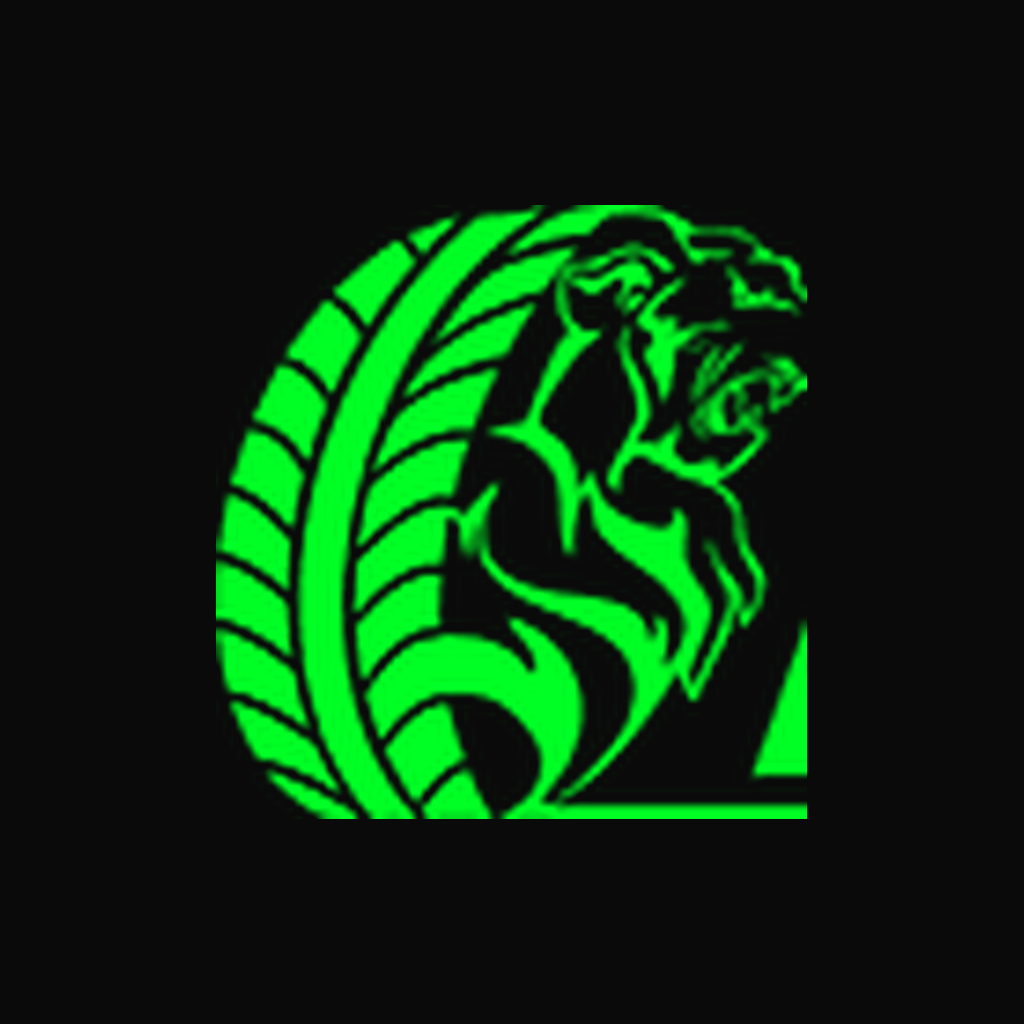
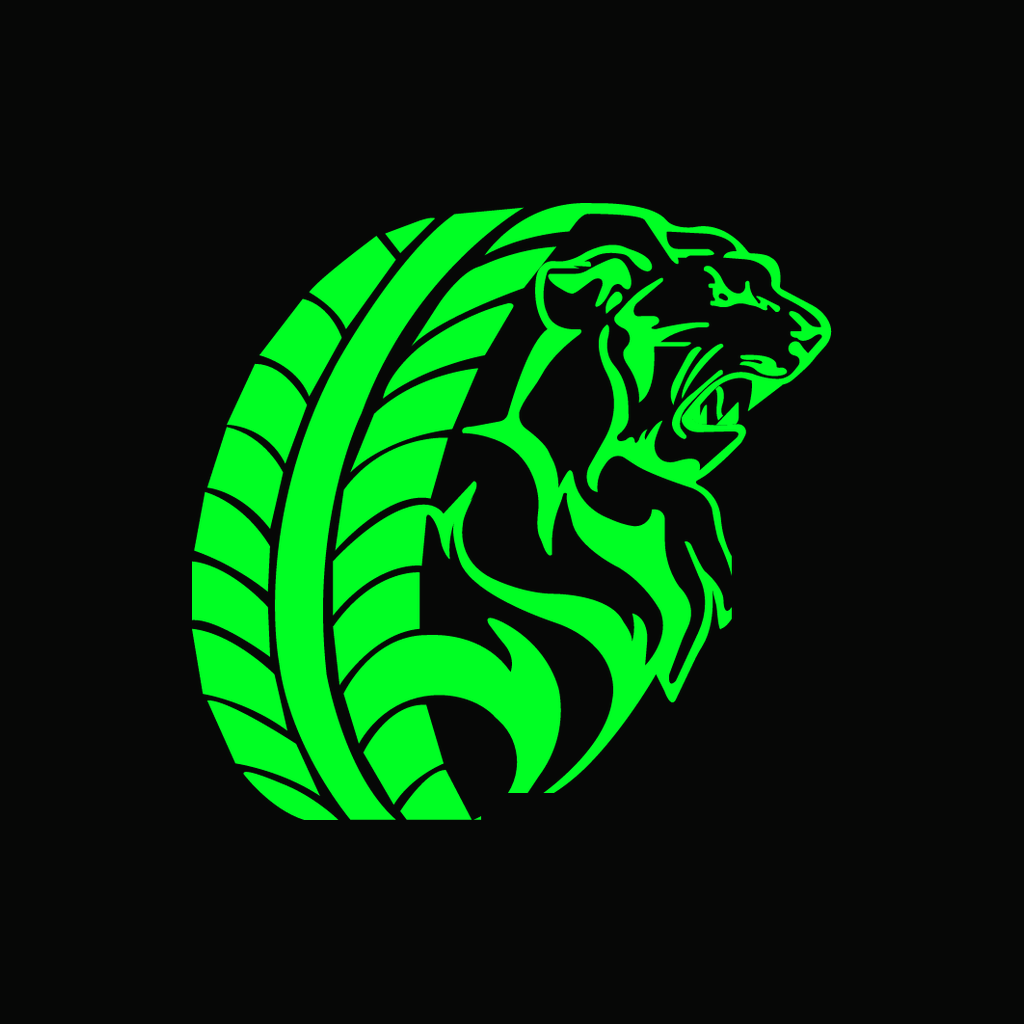
TestFlight/Expo Go readiness and remaining app gaps
- Link EAS project @devhaseeb/fahrschule-abgefahrn (projectId) — required for
  TestFlight builds and Expo push tokens
- expo-local-authentication 17.0.9 (expo-doctor 18/18)
- Crisp app icon, Android adaptive icon, splash and favicon rendered from the
  vector logo (old ones were blurry; icon was cropped)
- Biometric lock: never traps the user — turns itself off when biometrics /
  passcode are no longer usable (or Expo Go lacks Face ID), adds "Abmelden",
  new DS look + i18n, no lock while signed out
- Expo Go on Android: skip remote-push token registration (unsupported since
  SDK 53); local reminders still work
- Notification taps open the specific appointment
- Language choice is stored in profiles.locale; appointment notifications for
  English students are written in English

Changed region(s): [[0.1875, 0.1875, 0.8125, 0.8125]]

diff --git a/components/biometric-gate.tsx b/components/biometric-gate.tsx
@@ -9,13 +9,18 @@
  */
 
 import React, { useCallback, useEffect, useRef, useState } from 'react'
-import { AppState, BackHandler, Platform, Pressable, StyleSheet, Text, View } from 'react-native'
-import { Lock } from 'lucide-react-native'
+import { AppState, BackHandler, Platform, StyleSheet, View } from 'react-native'
+import { LockSimple } from 'phosphor-react-native/src/icons/LockSimple'
 
-import { Brand } from '@/components/ui'
-import { getBiometricEnabled, authenticate, subscribeBiometricEnabled } from '@/lib/biometric'
+import { Button, C, HeroGlow, LinkButton, Logo, T } from '@/components/ds'
+import { getBiometricEnabled, authenticateDetailed, setBiometricEnabled, subscribeBiometricEnabled } from '@/lib/biometric'
+import { useUser } from '@/lib/user-context'
+import { useT } from '@/lib/i18n'
 
 export function BiometricGate({ children }: { children: React.ReactNode }) {
+  const t = useT()
+  const { session, signOut } = useUser()
+  const signedIn = !!session
   const [locked, setLocked] = useState(false)
   const lockedRef = useRef(false)
   const enabledRef = useRef(false)
@@ -32,12 +37,18 @@ export function BiometricGate({ children }: { children: React.ReactNode }) {
     if (authInFlight.current) return
     authInFlight.current = true
     try {
-      const ok = await authenticate('Fahrschule Abgefahrn')
-      if (ok) setLockedBoth(false)
+      const res = await authenticateDetailed(t('lock.prompt'))
+      if (res.success) setLockedBoth(false)
+      else if (res.unusable) {
+        // Biometrics/passcode were removed on this device (or Expo Go lacks Face ID):
+        // a retry can never succeed → turn the lock off instead of trapping the user.
+        await setBiometricEnabled(false)
+        setLockedBoth(false)
+      }
     } finally {
       authInFlight.current = false
     }
-  }, [setLockedBoth])
+  }, [setLockedBoth, t])
 
   useEffect(() => {
     if (Platform.OS === 'web') return
@@ -70,28 +81,39 @@ export function BiometricGate({ children }: { children: React.ReactNode }) {
 
   // While locked, the hardware back button must not navigate the hidden screens.
   useEffect(() => {
-    if (!locked || Platform.OS !== 'android') return
+    if (!locked || !signedIn || Platform.OS !== 'android') return
     const sub = BackHandler.addEventListener('hardwareBackPress', () => true)
     return () => sub.remove()
-  }, [locked])
+  }, [locked, signedIn])
+
+  // Nobody signed in → nothing to protect (the login screen asks for the password anyway).
+  const showLock = locked && signedIn
 
   return (
     <View style={{ flex: 1 }}>
-      <View style={{ flex: 1 }} importantForAccessibility={locked ? 'no-hide-descendants' : 'auto'} accessibilityElementsHidden={locked}>
+      <View style={{ flex: 1 }} importantForAccessibility={showLock ? 'no-hide-descendants' : 'auto'} accessibilityElementsHidden={showLock}>
         {children}
       </View>
-      {locked ? (
-        <View style={[StyleSheet.absoluteFill, { zIndex: 2000, elevation: 2000 }]} className="items-center justify-center gap-6 bg-black">
-          <Brand size={72} />
-          <Pressable
-            onPress={tryUnlock}
-            accessibilityRole="button"
-            accessibilityLabel="Entsperren · Unlock"
-            className="flex-row items-center gap-2 rounded-2xl bg-brand px-6 py-4"
-          >
-            <Lock size={18} color="#0A0A0A" />
-            <Text className="font-bold text-ink">Entsperren · Unlock</Text>
-          </Pressable>
+      {showLock ? (
+        <View style={[StyleSheet.absoluteFill, { zIndex: 2000, elevation: 2000, backgroundColor: C.bg, overflow: 'hidden' }]}>
+          <HeroGlow top={120} />
+          <View style={{ flex: 1, alignItems: 'center', justifyContent: 'center', gap: 22, paddingHorizontal: 24 }}>
+            <Logo width={190} />
+            <View style={{ alignItems: 'center', gap: 6 }}>
+              <T variant="headingL" style={{ textAlign: 'center' }}>{t('lock.title')}</T>
+              <T variant="bodyM" color={C.muted} style={{ textAlign: 'center' }}>{t('lock.body')}</T>
+            </View>
+            <Button label={t('lock.unlock')} iconLeft={LockSimple} onPress={tryUnlock} style={{ alignSelf: 'stretch' }} />
+            <LinkButton
+              label={t('lock.signOut')}
+              color={C.muted}
+              onPress={async () => {
+                await setBiometricEnabled(false)
+                setLockedBoth(false)
+                await signOut()
+              }}
+            />
+          </View>
         </View>
       ) : null}
     </View>

diff --git a/lib/biometric.ts b/lib/biometric.ts
@@ -45,15 +45,34 @@ export async function setBiometricEnabled(v: boolean): Promise<void> {
   })
 }
 
-export async function authenticate(reason: string): Promise<boolean> {
-  if (Platform.OS === 'web') return true
+export type AuthResult = { success: boolean; unusable: boolean }
+
+/**
+ * Errors after which a retry can never succeed on this device right now
+ * (biometrics removed / passcode off / Expo Go without Face ID entitlement).
+ * The lock must then step aside instead of trapping the user.
+ */
+const UNUSABLE = new Set(['not_enrolled', 'not_available', 'passcode_not_set', 'missing_usage_description'])
+
+export async function authenticateDetailed(reason: string): Promise<AuthResult> {
+  if (Platform.OS === 'web') return { success: true, unusable: false }
   try {
+    if (!(await isBiometricAvailable())) {
+      // no biometrics any more → fall back to the device passcode if there is one
+      const level = await LocalAuthentication.getEnrolledLevelAsync().catch(() => LocalAuthentication.SecurityLevel.NONE)
+      if (level === LocalAuthentication.SecurityLevel.NONE) return { success: false, unusable: true }
+    }
     const res = await LocalAuthentication.authenticateAsync({
       promptMessage: reason,
       disableDeviceFallback: false,
     })
-    return res.success
+    if (res.success) return { success: true, unusable: false }
+    return { success: false, unusable: UNUSABLE.has((res as { error?: string }).error ?? '') }
   } catch {
-    return false
+    return { success: false, unusable: false }
   }
+}
+
+export async function authenticate(reason: string): Promise<boolean> {
+  return (await authenticateDetailed(reason)).success
 }

diff --git a/lib/notifications/push.ts b/lib/notifications/push.ts
@@ -12,7 +12,7 @@ import { useEffect, useRef } from 'react'
 import { Platform } from 'react-native'
 import AsyncStorage from '@react-native-async-storage/async-storage'
 import { useRouter } from 'expo-router'
-import Constants from 'expo-constants'
+import Constants, { ExecutionEnvironment } from 'expo-constants'
 import * as Device from 'expo-device'
 import * as Notifications from 'expo-notifications'
 
@@ -48,7 +48,18 @@ async function ensureAndroidChannel() {
   })
 }
 
+/**
+ * Remote (server) push is available: real device, not web, and not Expo Go on
+ * Android (removed from Expo Go in SDK 53 — local notifications still work there).
+ */
+export function remotePushSupported(): boolean {
+  if (Platform.OS === 'web' || !Device.isDevice) return false
+  if (Platform.OS === 'android' && Constants.executionEnvironment === ExecutionEnvironment.StoreClient) return false
+  return true
+}
+
 export async function getExpoPushToken(): Promise<string | null> {
+  if (!remotePushSupported()) return null
   const projectId =
     (Constants.expoConfig?.extra as any)?.eas?.projectId ??
     (Constants as any)?.easConfig?.projectId
@@ -70,7 +81,8 @@ function routeForNotification(
   router: ReturnType<typeof useRouter>,
 ) {
   const type = data?.type
-  if (type === 'schedule') router.push('/(tabs)/schedule')
+  if (typeof data?.appointment_id === 'string' && data.appointment_id) router.push(`/appointment/${data.appointment_id}` as any)
+  else if (type === 'schedule') router.push('/(tabs)/schedule')
   else if (type === 'theory') router.push('/(tabs)/theory')
   else if (type === 'exam') router.push('/exams' as any)
   else router.push('/notifications' as any)

diff --git a/components/profile/language-sheet.tsx b/components/profile/language-sheet.tsx
@@ -6,6 +6,8 @@ import React, { useEffect, useState } from 'react'
 import { Pressable, View } from 'react-native'
 import { Check } from 'phosphor-react-native/src/icons/Check'
 import { Globe } from 'phosphor-react-native/src/icons/Globe'
+import { getSupabase } from '@/lib/supabase/client'
+import { useUser } from '@/lib/user-context'
 
 import { Button, C, GLOW, Sheet, T } from '@/components/ds'
 import { useTranslation } from '@/lib/i18n'
@@ -47,6 +49,7 @@ function Option({ label, selected, onPress }: { label: string; selected: boolean
 
 export function LanguageSheet({ visible, onClose }: { visible: boolean; onClose: () => void }) {
   const { t, locale, setLocale } = useTranslation()
+  const { session } = useUser()
   const [choice, setChoice] = useState<Locale>(locale)
 
   // Re-sync the pending choice each time the sheet opens.
@@ -55,7 +58,12 @@ export function LanguageSheet({ visible, onClose }: { visible: boolean; onClose:
   }, [visible, locale])
 
   function done() {
-    if (choice !== locale) setLocale(choice)
+    if (choice !== locale) {
+      setLocale(choice)
+      // server-side texts (appointment notifications) follow the profile locale
+      const uid = session?.user?.id
+      if (uid) getSupabase().from('profiles').update({ locale: choice }).eq('id', uid).then(() => {}, () => {})
+    }
     onClose()
   }
 

diff --git a/components/push-registrar.tsx b/components/push-registrar.tsx
@@ -1,11 +1,25 @@
 /**
- * Push-token registrar. Implemented in Milestone 5 (lib/notifications/push.ts).
- * Stubbed here so the provider tree compiles from M3 onward.
+ * Signed-in background duties: push-token registration (lib/notifications/push.ts)
+ * and keeping profiles.locale in sync with the app language, so server-generated
+ * notifications (appointment confirmations etc.) arrive in the student's language.
  */
 
+import { useEffect } from 'react'
+
 import { usePushRegistration } from '@/lib/notifications/push'
+import { useUser } from '@/lib/user-context'
+import { useTranslation } from '@/lib/i18n'
+import { getSupabase } from '@/lib/supabase/client'
 
 export function PushRegistrar() {
   usePushRegistration()
+  const { profile } = useUser()
+  const { locale } = useTranslation()
+  const uid = profile?.id
+  const stored = profile?.locale
+  useEffect(() => {
+    if (!uid || !stored || stored === locale) return
+    getSupabase().from('profiles').update({ locale }).eq('id', uid).then(() => {}, () => {})
+  }, [uid, stored, locale])
   return null
 }

diff --git a/lib/i18n/v2/ds.ts b/lib/i18n/v2/ds.ts
@@ -1,5 +1,10 @@
 /** Shared design-system strings (states, toasts, tab bar, common actions). */
 export const de: Record<string, string> = {
+  'lock.title': 'App gesperrt',
+  'lock.body': 'Entsperre mit Face ID, Fingerabdruck oder deinem Geräte-Code.',
+  'lock.unlock': 'Entsperren',
+  'lock.signOut': 'Abmelden',
+  'lock.prompt': 'Fahrschule Abgefahrn entsperren',
   'ds.loading': 'Lädt deine Daten …',
   'ds.offline.title': 'Keine Verbindung',
   'ds.offline.body': 'Prüfe deine Internetverbindung und versuch es noch einmal.',
@@ -23,6 +28,11 @@ export const de: Record<string, string> = {
   'nav.profile': 'Profil',
 }
 export const en: Record<string, string> = {
+  'lock.title': 'App locked',
+  'lock.body': 'Unlock with Face ID, fingerprint or your device passcode.',
+  'lock.unlock': 'Unlock',
+  'lock.signOut': 'Sign out',
+  'lock.prompt': 'Unlock Fahrschule Abgefahrn',
   'ds.loading': 'Loading your data …',
   'ds.offline.title': 'No connection',
   'ds.offline.body': 'Check your internet connection and try again.',

diff --git a/lib/auth/push.ts b/lib/auth/push.ts
@@ -13,6 +13,7 @@ import * as Device from 'expo-device'
 import * as Notifications from 'expo-notifications'
 
 import { getSupabase } from '@/lib/supabase/client'
+import { remotePushSupported } from '@/lib/notifications/push'
 
 export async function hasPushPermission(): Promise<boolean> {
   if (Platform.OS === 'web') return true
@@ -39,7 +40,7 @@ export async function requestPushPermission(): Promise<boolean> {
 
 /** Fetches the Expo push token and stores it on the profile. Best-effort, never throws. */
 export async function registerPushToken(userId: string | null | undefined): Promise<void> {
-  if (Platform.OS === 'web' || !userId || !Device.isDevice) return
+  if (Platform.OS === 'web' || !userId || !Device.isDevice || !remotePushSupported()) return
   try {
     if (Platform.OS === 'android') {
       await Notifications.setNotificationChannelAsync('default', {

diff --git a/app/notifications.tsx b/app/notifications.tsx
@@ -52,6 +52,7 @@ function iconFor(n: NotificationRow): PhosphorIcon {
 function routeFor(n: NotificationRow): string | null {
   const d = (n.data ?? {}) as Record<string, any>
   if (typeof d.route === 'string' && d.route.startsWith('/')) return d.route
+  if (typeof d.appointment_id === 'string' && d.appointment_id) return `/appointment/${d.appointment_id}`
   const k = kindOf(n)
   if (k === 'document' || d.document_id) return d.document_id ? `/documents/${d.document_id}` : '/documents'
   if (k === 'chat' || k === 'message') return '/chat'
